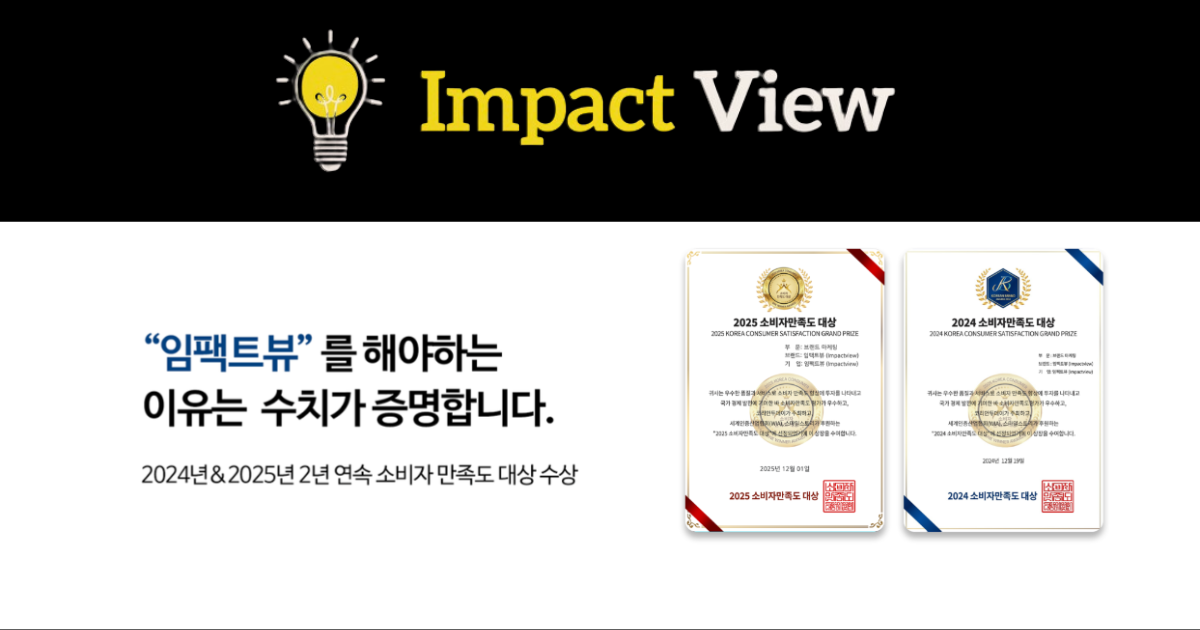
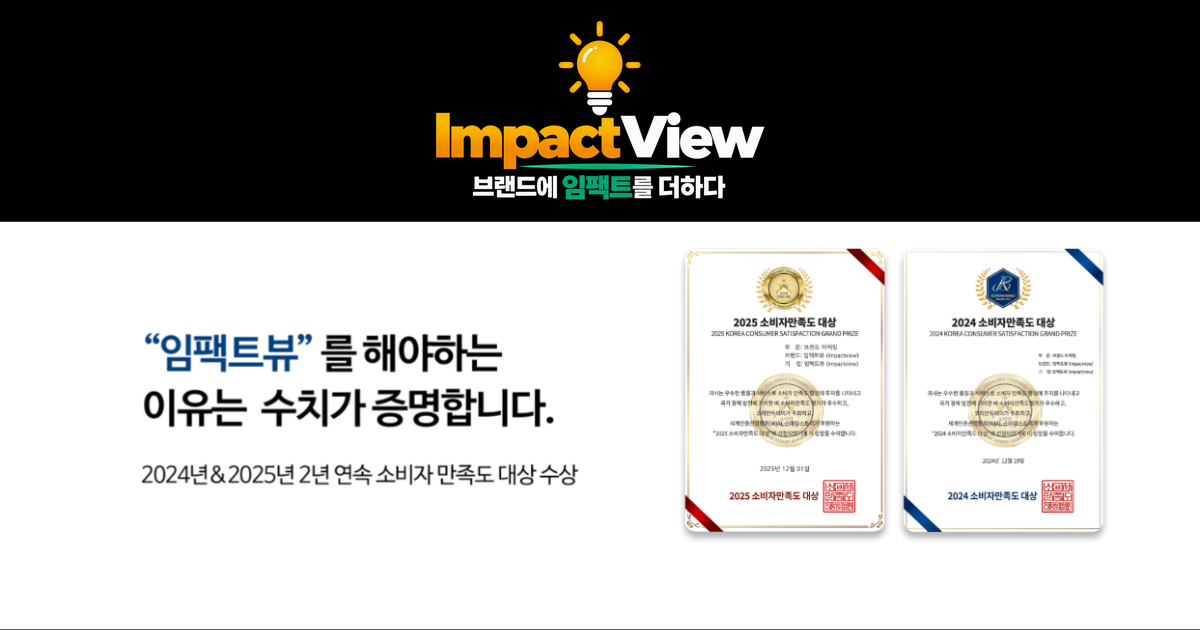
dist

Changed region(s): [[0.2158, 0.0302, 0.74, 0.3317]]

diff --git a/index.html b/index.html
@@ -3,21 +3,21 @@
 <head>
   <meta charset="UTF-8" />
   <meta name="viewport" content="width=device-width, initial-scale=1.0" />
-  <title>임팩트뷰 — 효과있는 마케팅은 따로 있습니다</title>
+  <title>임팩트뷰 — 브랜드에 임팩트를 더하다</title>
   <meta name="description" content="임팩트뷰는 네이버 플레이스, 블로그, 인스타그램 마케팅 전문 회사입니다. 고객 만족도 93%, 재계약률 90%+의 실력으로 증명합니다." />
   <link rel="canonical" href="https://xn--vu3b58o3lj5ma.kr/" />
 
   <meta property="og:type" content="website" />
   <meta property="og:locale" content="ko_KR" />
   <meta property="og:site_name" content="임팩트뷰 | Impact View" />
-  <meta property="og:title" content="임팩트뷰 | Impact View" />
+  <meta property="og:title" content="임팩트뷰 — 브랜드에 임팩트를 더하다" />
   <meta property="og:description" content="임팩트뷰는 네이버 플레이스, 블로그, 인스타그램 마케팅 전문 회사입니다. 고객 만족도 93%, 재계약률 90%+의 실력으로 증명합니다." />
   <meta property="og:image" content="https://xn--vu3b58o3lj5ma.kr/images/og-image_01.png" />
   <meta property="og:image:alt" content="임팩트뷰 공식 홈페이지 미리보기 이미지" />
   <meta property="og:url" content="https://xn--vu3b58o3lj5ma.kr/" />
 
   <meta name="twitter:card" content="summary_large_image" />
-  <meta name="twitter:title" content="임팩트뷰 | Impact View" />
+  <meta name="twitter:title" content="임팩트뷰 — 브랜드에 임팩트를 더하다" />
   <meta name="twitter:description" content="임팩트뷰는 네이버 플레이스, 블로그, 인스타그램 마케팅 전문 회사입니다. 고객 만족도 93%, 재계약률 90%+의 실력으로 증명합니다." />
   <meta name="twitter:image" content="https://xn--vu3b58o3lj5ma.kr/images/og-image_01.png" />
 
@@ -35,7 +35,8 @@
     "name": "임팩트뷰",
     "alternateName": "Impact View",
     "url": "https://xn--vu3b58o3lj5ma.kr/",
-    "logo": "https://xn--vu3b58o3lj5ma.kr/images/logo.png",
+    "slogan": "브랜드에 임팩트를 더하다",
+    "logo": "https://xn--vu3b58o3lj5ma.kr/images/logo-primary.png",
     "image": "https://xn--vu3b58o3lj5ma.kr/images/og-image_01.png",
     "description": "임팩트뷰는 네이버 플레이스, 블로그, 인스타그램 마케팅 전문 회사입니다. 고객 만족도 93%, 재계약률 90%+의 실력으로 증명합니다.",
     "address": {
@@ -126,9 +127,7 @@
     <div class="container">
       <div class="hero-content">
         <h1 class="hero-title display-font">
-          <span class="line-wrap"><span class="line line--1">효과있는</span></span>
-          <span class="line-wrap"><span class="line line--2"><span class="shimmer-word">마케팅은</span></span></span>
-          <span class="line-wrap"><span class="line line--3">따로 있습니다<span class="cursor-blink">!</span></span></span>
+          <span class="line-wrap"><span class="line line--1">마케팅, <span class="shimmer-word">그 이상의 가치</span><span class="cursor-blink">.</span></span></span>
         </h1>
 
         <p class="hero-sub blur-reveal">
@@ -652,7 +651,7 @@
       </div>
 
       <div class="footer-bottom">
-        <p class="footer-copy">© 2024 임팩트뷰. All rights reserved.</p>
+        <p class="footer-copy">© 2026 임팩트뷰. All rights reserved.</p>
       </div>
     </div>
   </footer>

diff --git a/css/style.css b/css/style.css
@@ -214,7 +214,7 @@ img { max-width: 100%; display: block; }
   display: flex;
   align-items: center;
   justify-content: space-between;
-  height: 72px;
+  height: 84px;
 }
 
 .nav-logo {
@@ -223,16 +223,15 @@ img { max-width: 100%; display: block; }
 }
 
 .nav-logo-img {
-  height: 64px;
+  height: 76px;
   width: auto;
-  /* 흰 배경 제거 — 다크 테마에 자연스럽게 합성 */
-  mix-blend-mode: lighten;
-  filter: brightness(1.1);
+  object-fit: contain;
+  filter: drop-shadow(0 4px 14px rgba(0, 0, 0, 0.28));
   transition: filter 0.2s;
 }
 
 .nav-logo:hover .nav-logo-img {
-  filter: brightness(1.25);
+  filter: brightness(1.06) drop-shadow(0 5px 18px rgba(0, 0, 0, 0.35));
 }
 
 .nav-menu {
@@ -617,12 +616,12 @@ img { max-width: 100%; display: block; }
 
 .hero-title {
   font-family: var(--font-display);
-  font-size: clamp(46px, 7.3vw, 98px);
+  font-size: clamp(42px, 5.8vw, 78px);
   line-height: 1.05;
   letter-spacing: -0.03em;
   margin-bottom: 32px;
   text-align: center;
-  white-space: normal;
+  white-space: nowrap;
 }
 
 /* ── Line reveal wrappers ── */
@@ -1775,10 +1774,11 @@ img { max-width: 100%; display: block; }
 }
 
 .footer-logo-img {
-  height: 52px;
+  height: 118px;
   width: auto;
   object-fit: contain;
   display: block;
+  filter: drop-shadow(0 8px 22px rgba(0, 0, 0, 0.28));
 }
 
 .footer-tagline {
@@ -1976,7 +1976,7 @@ img { max-width: 100%; display: block; }
     display: flex;
     flex-direction: column;
     position: fixed;
-    inset: 72px 0 0 0;
+    inset: 84px 0 0 0;
     background: rgba(7,7,15,0.97);
     backdrop-filter: none;
     -webkit-backdrop-filter: none;
@@ -1994,7 +1994,9 @@ img { max-width: 100%; display: block; }
 
   .nav-hamburger { display: flex; }
 
-  .hero-title { font-size: clamp(42px, 12.6vw, 70px); }
+  .nav-logo-img { height: 68px; }
+
+  .hero-title { font-size: clamp(22px, 7vw, 34px); }
 
   .stats {
     padding: 76px 0;
